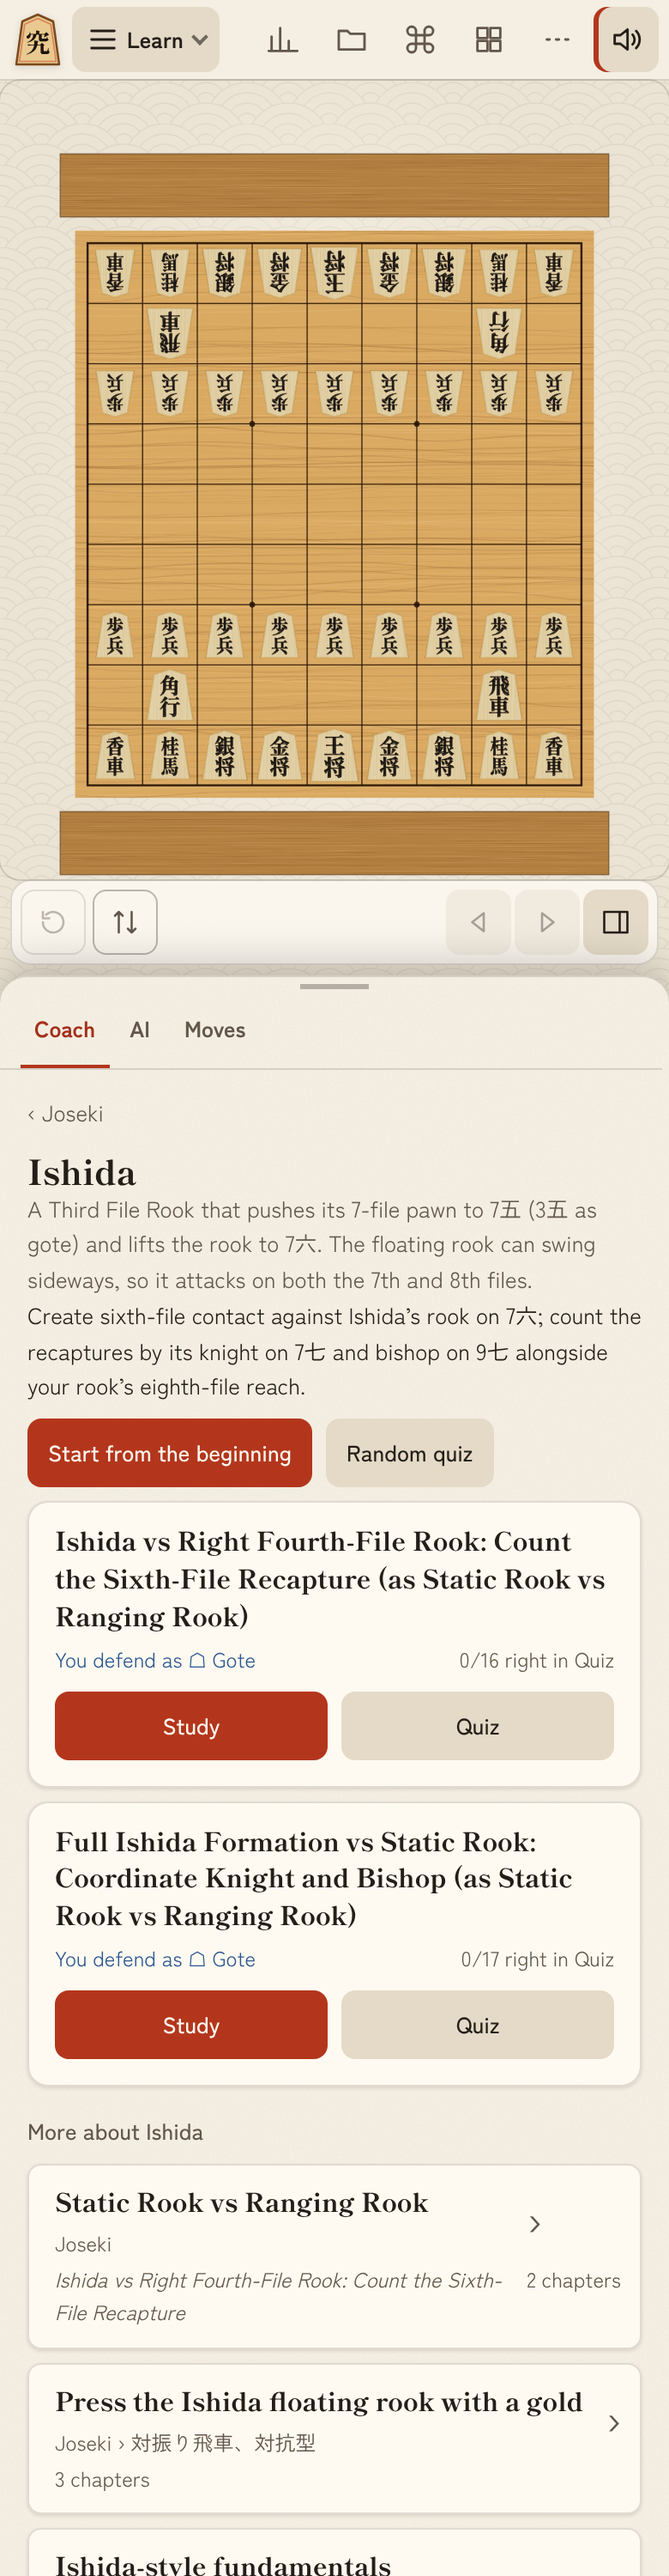
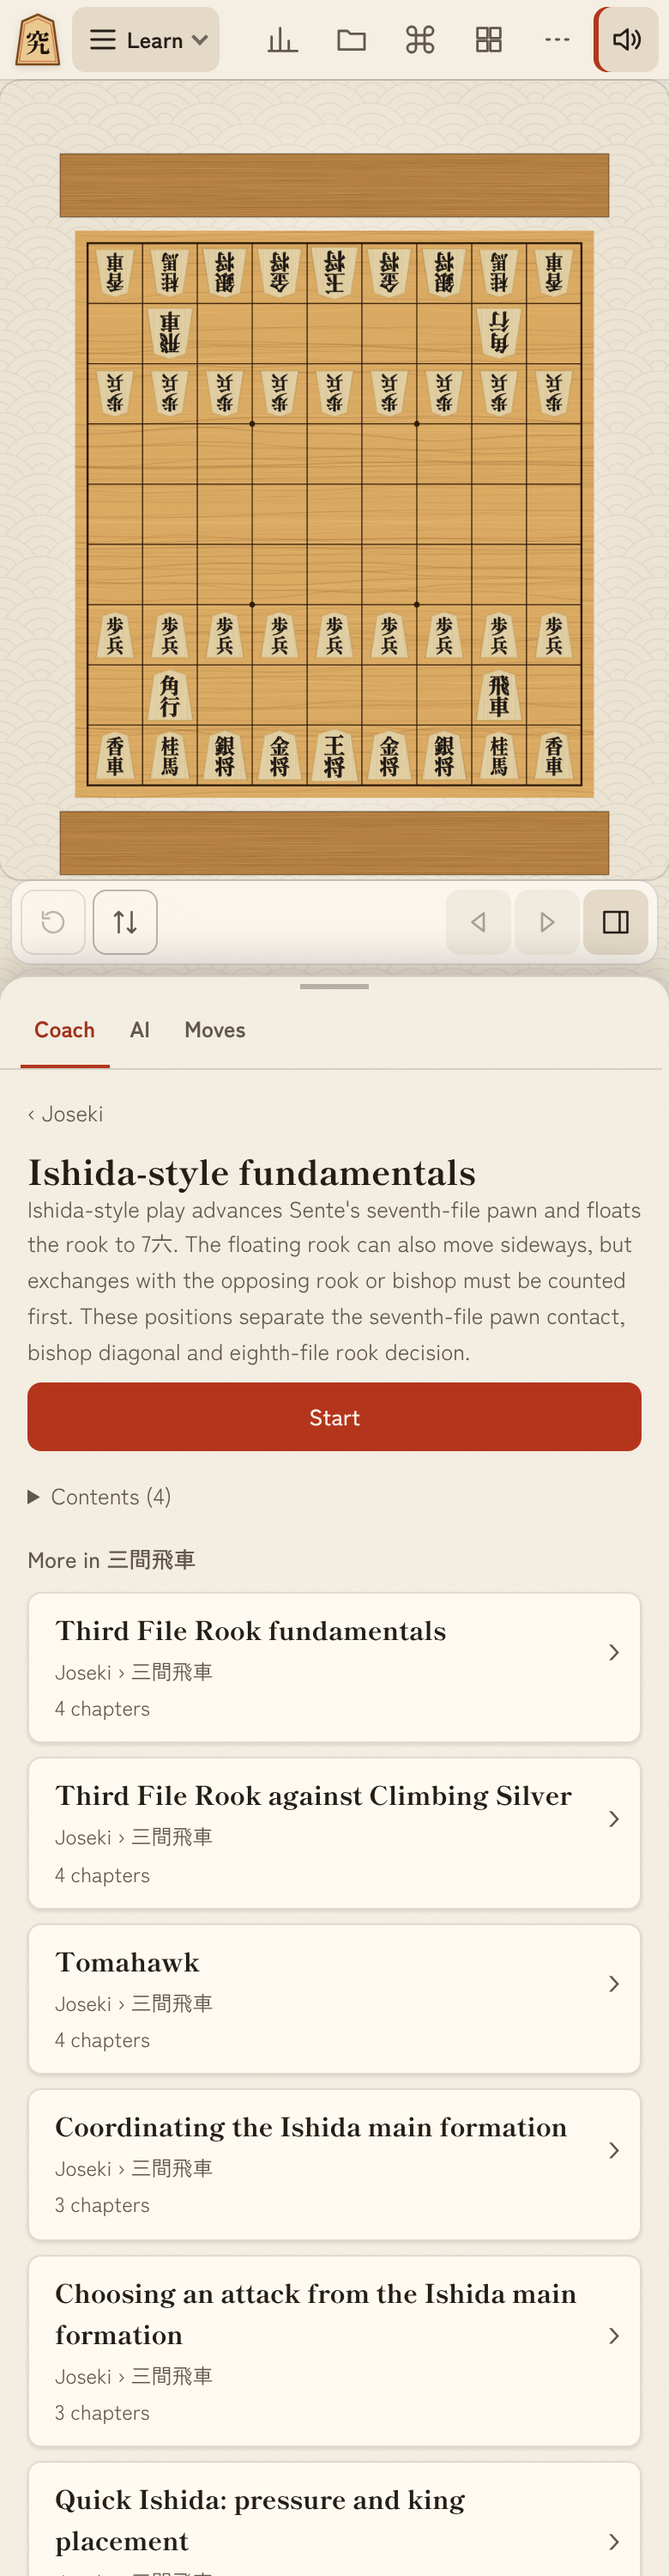
fix: matchup pages say vs <opponent> instead of masquerading as the opening

Changed region(s): [[0.0308, 0.434, 0.9538, 1.0]]

diff --git a/src/app/modes/lesson/OpeningPicker.tsx b/src/app/modes/lesson/OpeningPicker.tsx
@@ -197,7 +197,9 @@ export function OpeningPicker({ onOpen, level, setupId, setSetupId }: PickerProp
           </>
         )}
         {(() => {
-          const base = open.setup.ja
+          const opponent = open.setup.vs ? strategyById(open.setup.vs) : undefined
+          const base = opponent?.ja ?? open.setup.ja
+          const baseName = opponent?.en ?? open.setup.name
           const mentions = (g: Entry) => g.setup.ja.includes(base) || g.courses.some((c) => c.title.includes(base))
           const related = base.length >= 2 ? all.filter((g) => g.setup.id !== open.setup.id && mentions(g)).slice(0, 8) : []
           const group = josekiGroupOf(open.setup) ?? groupOf(open.setup)
@@ -209,7 +211,7 @@ export function OpeningPicker({ onOpen, level, setupId, setSetupId }: PickerProp
             : []
           return (
             <>
-              {related.length > 0 && <h3 className="app-sub">{ja ? `「${base}」に関する講座` : `More about ${open.setup.name}`}</h3>}
+              {related.length > 0 && <h3 className="app-sub">{ja ? `「${base}」に関する講座` : `More about ${baseName}`}</h3>}
               {related.map(resultCard)}
               {siblings.length > 0 && <h3 className="app-sub">{ja ? `${groupName(group!)}の他の講座` : `More in ${groupName(group!)}`}</h3>}
               {siblings.map(resultCard)}

diff --git a/src/utils/catalog.ts b/src/utils/catalog.ts
@@ -121,8 +121,9 @@ export function buildCatalog(raws: RawCourse[], lessons: LessonEntry[] = []) {
       id: mu.id,
       main: mu.main,
       vs: mu.vs,
-      name: mu.title?.en ?? vs?.en ?? mu.vs,
-      ja: mu.title?.ja ?? vs?.ja ?? mu.vs,
+      // A matchup page is how to face the opponent's strategy, so say so instead of reusing its bare name.
+      name: mu.title?.en ?? (vs ? (/\bvs\b/i.test(vs.en) ? vs.en : `vs ${vs.en}`) : mu.vs),
+      ja: mu.title?.ja ?? (vs ? (vs.ja.includes('対') ? vs.ja : `対${vs.ja}`) : mu.vs),
       intro: vs?.about ?? main?.about ?? { ja: '', en: '' },
       plan: mu.plan,
       level: mu.level,
